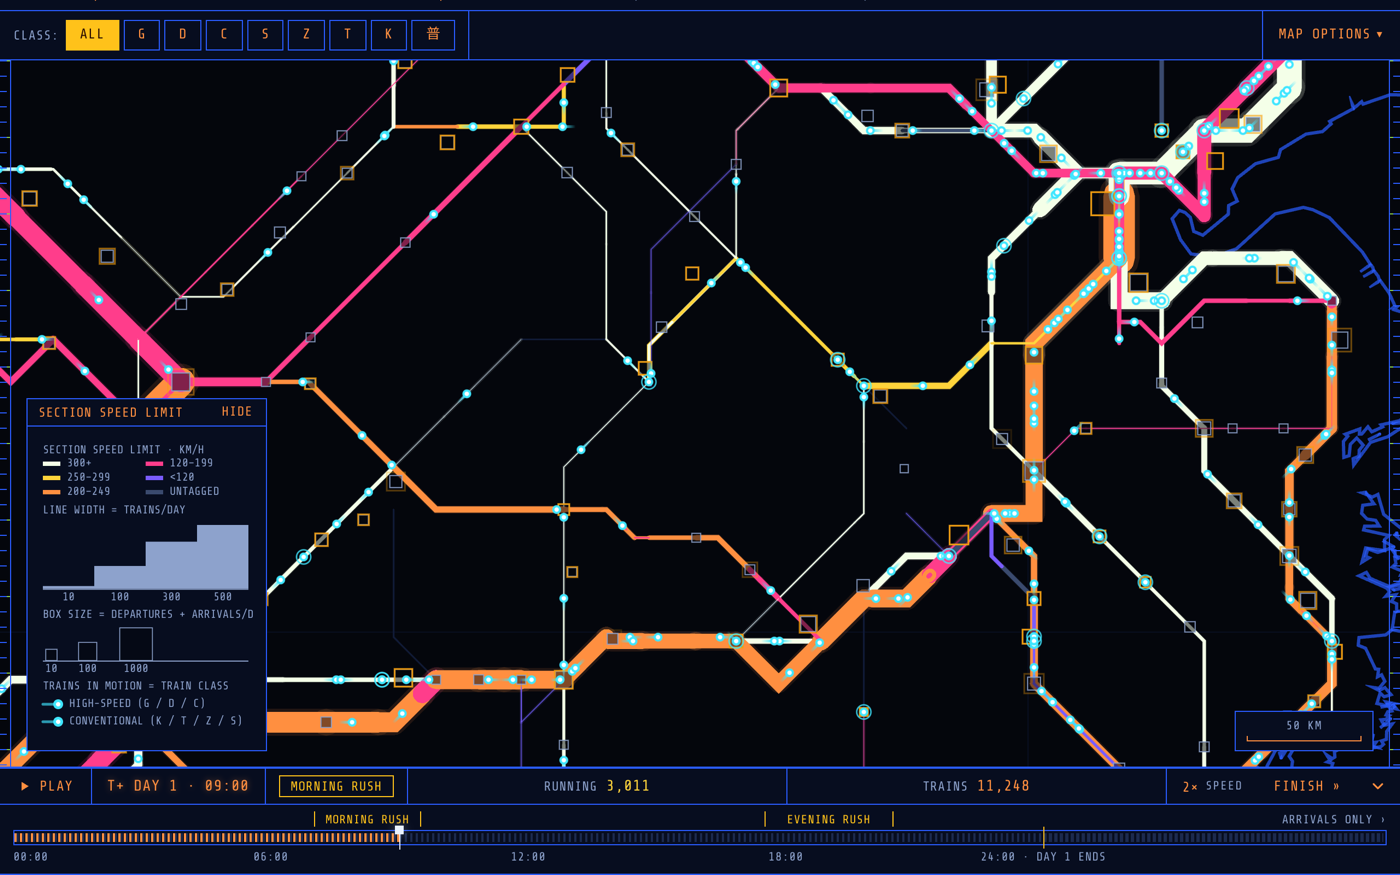
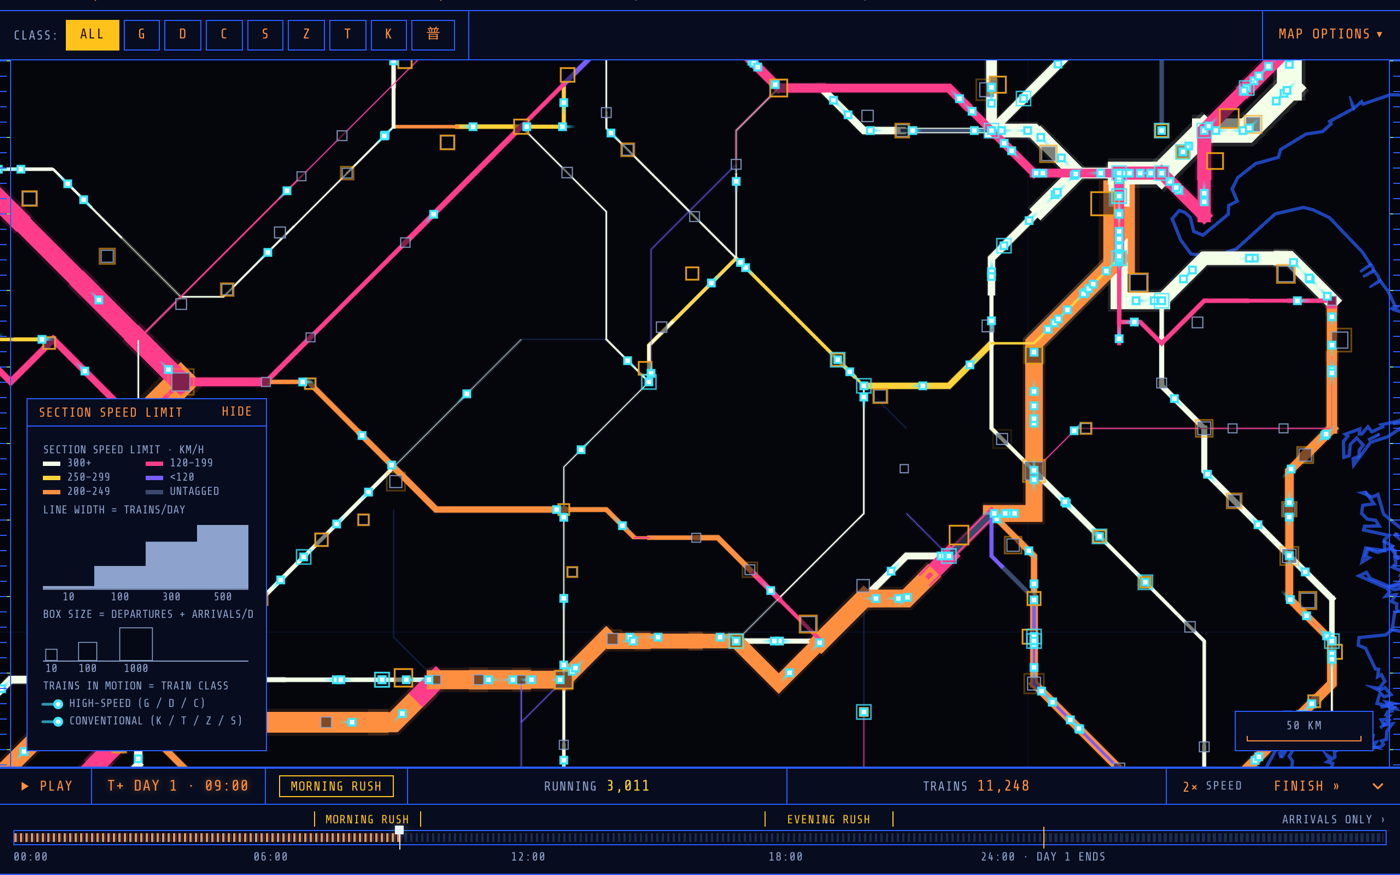
web: angular terminal skin (chained mitred flows, square caps, square trains)
The terminal skin drew flows with round caps (flat caps left seams
between sections), a round glow, and round train dots and rings.

- MapStyle.flowJoin: "chain" (terminal) joins consecutive flow paths
  of the same colour and width into one path, so corners are true
  mitres with no seams, and cuts every chain end square (pushed out by
  half its width). Draw-only: picking, highlights and national recounts
  keep one path per section. Paper stays "section" (pixel-identical).
- Terminal line style is flat and mitred; the glow follows the chains.
- Train dots, dwell rings and emphasis rings use BoxLayer when the
  skin's markers are boxes.

diff --git a/web/src/components/map/deck/layers/flows.ts b/web/src/components/map/deck/layers/flows.ts
@@ -294,10 +294,148 @@ interface FlowLayersInput {
   chords: ChordVM[];
 }
 
+/* ---------- chained draw data (MapStyle.flowJoin "chain") ---------- */
+
+/** What the visible flow and glow layers draw: the pass itself, or its chains. */
+interface DrawData {
+  id: number;
+  data: BinaryData;
+  n: Float32Array;
+  rgba: Uint8Array;
+}
+
+/** `pd` with consecutive paths of the same count and colour joined into one
+    path wherever exactly two of them meet at a point (so the joint is a mitre
+    inside one path, with no seam), and every chain end pushed out by half its
+    width along its end direction (a square cap: deck's flat cap stops at the
+    vertex). Paths drawn transparent (recounted to 0) are dropped. Picking,
+    highlights and recounts keep using `pd`, one path per section. */
+const chainCache = new WeakMap<PassData, { fitScale: number; d: DrawData }>();
+function chainedDraw(pd: PassData, fitScale: number): DrawData {
+  const hit = chainCache.get(pd);
+  if (hit && hit.fitScale === fitScale) return hit.d;
+  const { length, startIndices } = pd.data;
+  const P = pd.data.attributes.getPath.value;
+  const nv = P.length / 2;
+  const first = (p: number) => startIndices[p];
+  const last = (p: number) => (p + 1 < length ? startIndices[p + 1] : nv) - 1;
+  const live = (p: number) => pd.n[p] > 0 && pd.rgba[p * 4 + 3] > 0 && last(p) > first(p);
+  const grp = (p: number) =>
+    `${pd.n[p]}|${pd.rgba[p * 4]},${pd.rgba[p * 4 + 1]},${pd.rgba[p * 4 + 2]},${pd.rgba[p * 4 + 3]}`;
+  const ptKey = (v: number) => `${P[v * 2]},${P[v * 2 + 1]}`;
+  // ends: x = p * 2 + e (e 0 = first vertex, 1 = last vertex)
+  const at = new Map<string, number[]>();
+  for (let p = 0; p < length; p++) {
+    if (!live(p)) continue;
+    const g = grp(p);
+    for (const e of [0, 1]) {
+      const k = ptKey(e ? last(p) : first(p)) + "#" + g;
+      const a = at.get(k);
+      if (a) a.push(p * 2 + e);
+      else at.set(k, [p * 2 + e]);
+    }
+  }
+  const other = (x: number): number => {
+    const p = x >> 1;
+    const a = at.get(ptKey(x & 1 ? last(p) : first(p)) + "#" + grp(p));
+    if (!a || a.length !== 2) return -1;
+    const y = a[0] === x ? a[1] : a[0];
+    return y >> 1 === p ? -1 : y;
+  };
+  const used = new Uint8Array(length);
+  const chains: number[][] = []; // entries: p * 2 + (1 if reversed)
+  for (let p0 = 0; p0 < length; p0++) {
+    if (used[p0] || !live(p0)) continue;
+    // walk back from p0's first vertex to the chain start
+    let x = p0 * 2; // leaving p0 through its first end
+    let ring = false;
+    for (;;) {
+      const y = other(x);
+      if (y < 0) break;
+      const q = y >> 1;
+      if (q === p0) { ring = true; break; }
+      x = q * 2 + (1 - (y & 1)); // leave q through its other end
+    }
+    // x is the free end of the start path: traverse forward from it
+    const chain: number[] = [];
+    let p = ring ? p0 : x >> 1;
+    let enter = ring ? 0 : x & 1; // the end we enter through
+    for (;;) {
+      if (used[p]) break;
+      used[p] = 1;
+      chain.push(p * 2 + enter); // enter through last vertex = reversed
+      const y = other(p * 2 + (1 - enter));
+      if (y < 0) break;
+      p = y >> 1;
+      enter = y & 1;
+    }
+    chains.push(chain);
+  }
+  let total = 0;
+  for (const c of chains) {
+    total += 1;
+    for (const x of c) total += last(x >> 1) - first(x >> 1);
+  }
+  const out = new Float32Array(total * 2);
+  const starts = new Uint32Array(chains.length);
+  const n = new Float32Array(chains.length);
+  const rgba = new Uint8Array(chains.length * 4);
+  let w = 0;
+  chains.forEach((c, i) => {
+    starts[i] = w / 2;
+    const p0 = c[0] >> 1;
+    n[i] = pd.n[p0];
+    rgba.set(pd.rgba.subarray(p0 * 4, p0 * 4 + 4), i * 4);
+    const s0 = w;
+    c.forEach((x, j) => {
+      const p = x >> 1;
+      const a = first(p);
+      const b = last(p);
+      const rev = x & 1;
+      for (let k = 0; k <= b - a; k++) {
+        if (j > 0 && k === 0) continue; // the shared joint vertex
+        const v = rev ? b - k : a + k;
+        out[w++] = P[v * 2];
+        out[w++] = P[v * 2 + 1];
+      }
+    });
+    // square-cut ends: push the end vertices out by half the line width
+    const half = (flowUnits(n[i]) * WIDTH_K) / fitScale / 2;
+    const push = (iv: number, jv: number) => {
+      const dx = out[iv] - out[jv];
+      const dy = out[iv + 1] - out[jv + 1];
+      const l = Math.hypot(dx, dy);
+      if (l > 0) {
+        out[iv] += (dx / l) * half;
+        out[iv + 1] += (dy / l) * half;
+      }
+    };
+    const closed = out[s0] === out[w - 2] && out[s0 + 1] === out[w - 1];
+    if (!closed && w - s0 >= 4) {
+      push(s0, s0 + 2);
+      push(w - 2, w - 4);
+    }
+  });
+  const d: DrawData = {
+    id: nextId++,
+    data: { length: chains.length, startIndices: starts, attributes: { getPath: { value: out.subarray(0, w), size: 2 } } },
+    n,
+    rgba,
+  };
+  chainCache.set(pd, { fitScale, d });
+  return d;
+}
+
+/** The data the visible flow and glow layers draw for `pd`. */
+function drawData(pd: PassData, fitScale: number, style: MapStyle): DrawData {
+  return style.flowJoin === "chain" ? chainedDraw(pd, fitScale) : pd;
+}
+
 /** Canvas flowWidth in CSS px. */
 const widthPx = (n: number, scale: number, fitScale: number) => flowWidth(n, scale, fitScale);
 
-function flowPassLayer(role: string, pd: PassData, fitScale: number, style: MapStyle) {
+function flowPassLayer(role: string, pass: PassData, fitScale: number, style: MapStyle) {
+  const pd = drawData(pass, fitScale, style);
   return new PathLayer({
     id: "flows-" + role,
     data: pd.data,
@@ -376,9 +514,11 @@ function ferryDashLayer(id: string, pd: PassData, scale: number, fitScale: numbe
     lines or changes picking. Null when the style has no glow or the pass is
     faded (its colours are pre-blended over the paper and must stay flat).
     Costs one more path draw per glowing pass. */
-export function flowGlowLayer(role: string, pd: PassData, alpha: number, fitScale: number, style: MapStyle): Layer | null {
+export function flowGlowLayer(role: string, pass: PassData, alpha: number, fitScale: number, style: MapStyle): Layer | null {
   const glow = style.glow;
   if (!glow || alpha < 1) return null;
+  const pd = drawData(pass, fitScale, style);
+  const angular = style.flowJoin === "chain";
   return new PathLayer({
     id: "flows-glow-" + role,
     data: pd.data,
@@ -386,8 +526,8 @@ export function flowGlowLayer(role: string, pd: PassData, alpha: number, fitScal
     widthUnits: "common",
     widthScale: 1,
     widthMinPixels: glow.minPixels,
-    capRounded: true,
-    jointRounded: true,
+    capRounded: !angular,
+    jointRounded: !angular,
     getWidth: (_: unknown, { index }: { index: number }) => (flowUnits(pd.n[index]) * WIDTH_K * glow.widthScale) / fitScale,
     getColor: (_: unknown, { index, target }: { index: number; target?: number[] }) => {
       const t = target ?? [0, 0, 0, 0];

diff --git a/web/tests/layers.test.ts b/web/tests/layers.test.ts
@@ -140,14 +140,46 @@ describe("buildPassData", () => {
     expect(ids.filter((i) => i.startsWith("flows-glow-"))).toEqual(["flows-glow-focus"]);
     expect(ids.indexOf("flows-glow-focus")).toBeLessThan(ids.indexOf("flows-context"));
     const g: any = layers[ids.indexOf("flows-glow-focus")];
-    const pdf = buildPassData(set, passes[1].items, term, 1, passes[1].maxN);
-    expect(g.props.data).toBe(pdf.data);
+    const f: any = layers[ids.indexOf("flows-focus")];
+    // the glow draws exactly what the (chained) flow layer draws, flat and mitred
+    expect(g.props.data).toBe(f.props.data);
+    expect(g.props.capRounded).toBe(false);
+    expect(g.props.jointRounded).toBe(false);
     expect(g.props.pickable).toBe(false);
     expect(g.props.widthMinPixels).toBe(glow.minPixels);
-    expect(g.props.getWidth(undefined, { index: 0 })).toBeCloseTo((flowUnits(pdf.n[0]) * WIDTH_K * glow.widthScale) / 12.5, 9);
+    const w0 = f.props.getWidth(undefined, { index: 0 });
+    expect(g.props.getWidth(undefined, { index: 0 })).toBeCloseTo(w0 * glow.widthScale, 9);
+    const fc = f.props.getColor(undefined, { index: 0 });
     const c = g.props.getColor(undefined, { index: 0 });
-    expect(Array.from(c.slice(0, 3))).toEqual(Array.from(pdf.rgba.slice(0, 3)));
-    expect(c[3]).toBe(Math.round(pdf.rgba[3] * glow.alpha));
+    expect(Array.from(c.slice(0, 3))).toEqual(Array.from(fc.slice(0, 3)));
+    expect(c[3]).toBe(Math.round(fc[3] * glow.alpha));
+  });
+
+  test("chained flows (terminal): same-colour, same-width sections joined, ends cut square", () => {
+    const passes = flowPasses(st({ panelDest: dest }), newModelCaches());
+    const term = mapStyle("terminal", "dark");
+    const pdf = buildPassData(set, passes[1].items, term, 1, passes[1].maxN);
+    const f: any = flowPassLayers(set, passes, term, 100, 12.5).find((l) => l.id === "flows-focus");
+    const d = f.props.data;
+    expect(f.props.capRounded).toBe(false);
+    expect(f.props.jointRounded).toBe(false);
+    // picking and recounts keep one path per section
+    expect(d).not.toBe(pdf.data);
+    expect(d.length).toBeGreaterThan(0);
+    expect(d.length).toBeLessThanOrEqual(pdf.data.length);
+    // every chain keeps one count and colour, taken from a section of the pass
+    const counts = new Set(Array.from(pdf.n));
+    for (let i = 0; i < d.length; i++) {
+      const w = f.props.getWidth(undefined, { index: i }) * 12.5 / WIDTH_K;
+      expect([...counts].some((n) => Math.abs(flowUnits(n) - w) < 1e-6)).toBe(true);
+    }
+    // vertices: each chain has its sections' vertices minus the shared joints
+    const pv = pdf.data.attributes.getPath.value.length / 2;
+    const dv = d.attributes.getPath.value.length / 2;
+    expect(dv).toBeLessThanOrEqual(pv);
+    // paper stays one path per section
+    const paper: any = flowPassLayers(set, passes, style, 100, 12.5).find((l) => l.id === "flows-focus");
+    expect(paper.props.data).toBe(buildPassData(set, passes[1].items, style, 1, passes[1].maxN).data);
   });
 });
 

diff --git a/web/src/components/map/deck/layers/trains.ts b/web/src/components/map/deck/layers/trains.ts
@@ -13,6 +13,7 @@
    shared with the entry bundle (C23): the buffer pool is private to this chunk. */
 import type { Layer } from "@deck.gl/core";
 import { ScatterplotLayer } from "@deck.gl/layers";
+import { BoxLayer } from "../BoxLayer";
 import type { ActiveTrainVM } from "../../../../types";
 import { DEFAULT_SKIN, mapStyle } from "../../../../lib";
 import type { MapStyle, RGBA } from "../../../../lib";
@@ -194,8 +195,9 @@ interface TrainLayerInput {
 }
 
 /** An unfilled ring layer, one disc per ring. `trigger` is the update-trigger of the per-frame accessors. */
-export function ringLayer(id: string, discs: Disc[], trigger: string | number): Layer {
-  return new ScatterplotLayer<Disc>({
+export function ringLayer(id: string, discs: Disc[], trigger: string | number, box = false): Layer {
+  const Ring = box ? BoxLayer : ScatterplotLayer;
+  return new Ring<Disc>({
     id,
     data: discs,
     getPosition: (d) => d.pos,
@@ -217,8 +219,10 @@ export function ringLayer(id: string, discs: Disc[], trigger: string | number): 
 export function dotLayers(
   prefix: "" | "nat-",
   b: DotBuffers,
-  o: { pickable: boolean; isolated: boolean; trigger: string | number },
+  o: { pickable: boolean; isolated: boolean; trigger: string | number; box?: boolean },
 ): Layer[] {
+  // square dots and rings with box markers (terminal), discs otherwise
+  const Dot = o.box ? BoxLayer : ScatterplotLayer;
   return [
     new TailLayer({
       id: prefix + "tails",
@@ -234,7 +238,7 @@ export function dotLayers(
       getWidth: o.isolated ? 3.5 : 2.5,
       pickable: false,
     }),
-    new ScatterplotLayer({
+    new Dot({
       id: prefix + "trains",
       data: {
         length: b.count,
@@ -254,12 +258,13 @@ export function dotLayers(
       pickable: o.pickable,
       parameters: { depthCompare: "always" },
     }),
-    ringLayer(prefix + "dwell", b.dwell, o.trigger),
+    ringLayer(prefix + "dwell", b.dwell, o.trigger, o.box),
   ];
 }
 
 export function trainLayers(inp: TrainLayerInput): Layer[] {
   const b = buildTrainBuffers(inp.trains, inp.scale, inp.isolatedCode, inp.selectedCode, inp.hoveredCode, inp.style);
   const trig = inp.animTime + "|" + inp.scale;
-  return [...dotLayers("", b, { pickable: false, isolated: !!inp.isolatedCode, trigger: trig }), ringLayer("trainring", b.rings, trig)];
+  const box = inp.style?.marker.shape === "box";
+  return [...dotLayers("", b, { pickable: false, isolated: !!inp.isolatedCode, trigger: trig, box }), ringLayer("trainring", b.rings, trig, box)];
 }

diff --git a/web/src/lib/style/index.ts b/web/src/lib/style/index.ts
@@ -143,6 +143,11 @@ export interface LineStyle {
   readonly jointRounded: boolean;
 }
 
+/** How flows are drawn: one path per section ("section", paper), or consecutive
+    sections of the same colour and width chained into one path with mitred
+    joints and square-cut ends ("chain": angular, no round caps or seams). */
+export type FlowJoin = "section" | "chain";
+
 /** City marker shape: discs, or squares of the same area (boxSide). */
 export type MarkerShape = "circle" | "box";
 
@@ -212,6 +217,7 @@ export interface MapStyle {
   readonly speedBands: SpeedRamp;
   readonly alpha: Alphas;
   readonly line: LineStyle;
+  readonly flowJoin: FlowJoin;
   /** Flow glow underlay; null draws none (paper). */
   readonly glow: GlowStyle | null;
   readonly marker: MarkerStyle;
@@ -321,6 +327,7 @@ const PAPER: SkinDef = {
         natCityFill: dark ? 0.4 : 0.35,
       },
       line: { capRounded: true, jointRounded: true },
+      flowJoin: "section",
       glow: null,
       marker: { shape: "circle", edgeWidth: dark ? 3.0 : 1.5, minRadius: 0 },
       font: {
@@ -414,12 +421,12 @@ const TERMINAL: SkinDef = {
       speedBands: { bands: ["#F4FFE8", "#FFD43B", T_AMBER, "#FF3D8B", "#7A5CFF"], untagged: "#3A4A6E" },
       // The city fill carries its own alpha (pal.dot), so the national boxes take it as is.
       alpha: { ...base.alpha, natCityFill: 1 },
-      // Mitred joints, but rounded caps: deck's non-rounded cap is flat (it
-      // stops at the vertex), so two sections meeting end to end leave an
-      // antialiased dark seam across wide corridors. Round caps overlap and
-      // hide it. True mitres between sections need them chained into one
-      // path (planned with the angular geometry, P4).
-      line: { capRounded: true, jointRounded: false },
+      // Angular: flows are chained (sections of one colour and width form one
+      // path, so corners are true mitres and there are no seams) and their
+      // ends are cut square (extended by half their width); everything else
+      // drawn with style.line (train tails, highlights) is flat and mitred.
+      line: { capRounded: false, jointRounded: false },
+      flowJoin: "chain",
       glow: { widthScale: 1.3, minPixels: 3, alpha: 0.12 },
       marker: { shape: "box", edgeWidth: 1, minRadius: 5 },
       font: { family: mono, tag: mono, caps: true, load: ["16px 'Share Tech Mono'"] },

diff --git a/web/src/components/map/deck/layers/national/trains.ts b/web/src/components/map/deck/layers/national/trains.ts
@@ -104,8 +104,8 @@ export function nationalFrame(tl: NationalTimeline, atlas: DecodedAtlas, m: numb
     objects every frame, so deck re-uploads the pooled buffers. Only the dots are pickable, and
     only while the clock is paused (P2.3 picks them). The isolated train's dot and tail are
     enlarged as in the origin view. */
-export function nationalLayers(f: NationalFrame, pickable: boolean, isolated = false): Layer[] {
-  return dotLayers("nat-", f, { pickable, isolated, trigger: f.count });
+export function nationalLayers(f: NationalFrame, pickable: boolean, isolated = false, style?: MapStyle): Layer[] {
+  return dotLayers("nat-", f, { pickable, isolated, trigger: f.count, box: style?.marker.shape === "box" });
 }
 
 /** The origin view's emphasis rings on the hovered / selected / isolated
@@ -140,7 +140,7 @@ export function nationalRings(
       col: iso ? [g[0], g[1], g[2], 255] : [255, 255, 255, 255],
     });
   }
-  return rings.length ? [ringLayer("nat-train-rings", rings, f.count)] : [];
+  return rings.length ? [ringLayer("nat-train-rings", rings, f.count, style?.marker.shape === "box")] : [];
 }
 
 /** The isolated train's whole run as a line in its class colour (the origin

diff --git a/web/tests/style.test.ts b/web/tests/style.test.ts
@@ -97,13 +97,15 @@ describe("terminal skin", () => {
     expect(t.mode).toBe("dark");
   });
 
-  test("encodings and shapes: speedLimit lines, flat box cities, round caps and mitred joints", () => {
+  test("encodings and shapes: speedLimit lines, flat box cities, chained angular flows", () => {
     expect(t.enc.lineColor).toBe(LINE_COLOR.speedLimit);
     expect(t.enc.nodeColor).toBe(NODE_COLOR.flat);
     expect(t.enc.nodeSize).toBe(NODE_SIZE.stationRadius);
     expect(t.enc.natNodeSize).toBe(NODE_SIZE.natCityRadius);
     expect(t.marker.shape).toBe("box");
-    expect(t.line).toEqual({ capRounded: true, jointRounded: false });
+    expect(t.line).toEqual({ capRounded: false, jointRounded: false });
+    expect(t.flowJoin).toBe("chain");
+    expect(mapStyle("paper", "light").flowJoin).toBe("section");
     expect(t.font.family).toBe("'Share Tech Mono', 'Noto Sans SC', ui-monospace, monospace");
     // canvas labels in capitals, once the web face is loaded
     expect(t.font.caps).toBe(true);

diff --git a/web/src/components/map/deck/layers/national/index.ts b/web/src/components/map/deck/layers/national/index.ts
@@ -120,7 +120,7 @@ export function nationalBuildLayers(M: MapCtx, stats: DeckStats): Layer[] {
   stats.natBuildMs = built.ms;
   stats.natDots = f.count;
   st.natPick = { tl: built.tl, count: f.count, buf: f.pos, qOf: f.qOf, m: ((st.animTime % 1440) + 1440) % 1440 };
-  layers.push(...nationalLayers(f, !st.animPlaying, !!iso));
+  layers.push(...nationalLayers(f, !st.animPlaying, !!iso, style));
   layers.push(
     ...nationalRings(f, built.tl, atlas, {
       hover: st.hover && st.hover.kind === "train" ? st.hover.train.code : null,
